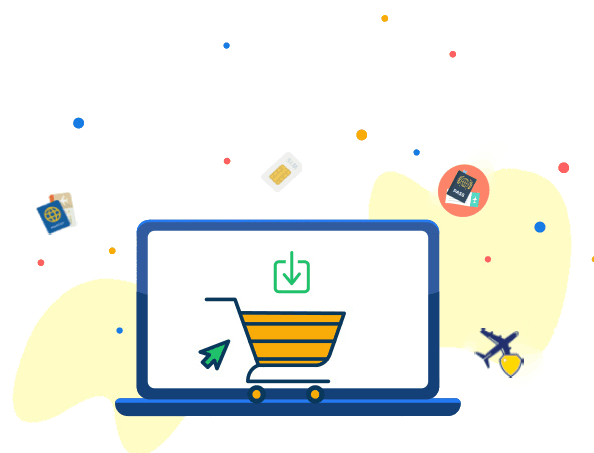
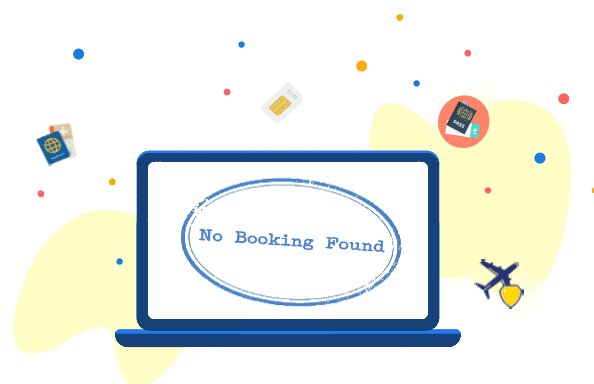
modal bug

diff --git a/src/app/components/my-bookings/my-bookings.component.html b/src/app/components/my-bookings/my-bookings.component.html
@@ -425,8 +425,8 @@ responsive="true" autoHide="true" previousLabel="Previous" nextLabel="Next"
 
 <!-- Modal -->
 
-<div class="modal fade show" id="exampleModal" tabindex="-1" role="dialog" aria-labelledby="exampleModalLabel"
- aria-hidden="true" [ngStyle]="{'display': bookingStatus == true ? 'block' : 'none'}" style="background-color: rgba(0, 0, 0, .7); overflow-y: scroll !important;">
+<div class="modal fade show" tabindex="-1" role="dialog"
+ aria-hidden="true" [ngStyle]="{'display': bookingStatus ? 'block' : 'none'}" style="background-color: rgba(0, 0, 0, .7); overflow-y: scroll !important;">
     <div class="modal-dialog modal-lg modal-dialog-centered" role="document">
         <div class="modal-content">
             <div class="modal-body" style="padding: 0px;">

diff --git a/src/app/components/header/header.component.ts b/src/app/components/header/header.component.ts
@@ -43,10 +43,11 @@ export class HeaderComponent implements OnInit {
 
           if(event.url == "/" || event.url == "/visa" || event.url == "/sim" || event.url == "/sim/simplans" ) {
             this.showTransparentNavbar = true;
+            console.log('checkout3');
           }
-          else if(arr[1] == "visa" || arr[1] == "" || arr[1] == "sim" ) {
+          else if(arr[1] == "visa" || arr[1] == "" ) {
             this.showTransparentNavbar = true;
-
+            console.log('checkout1');
           }
           else {
             this.showTransparentNavbar = false;
